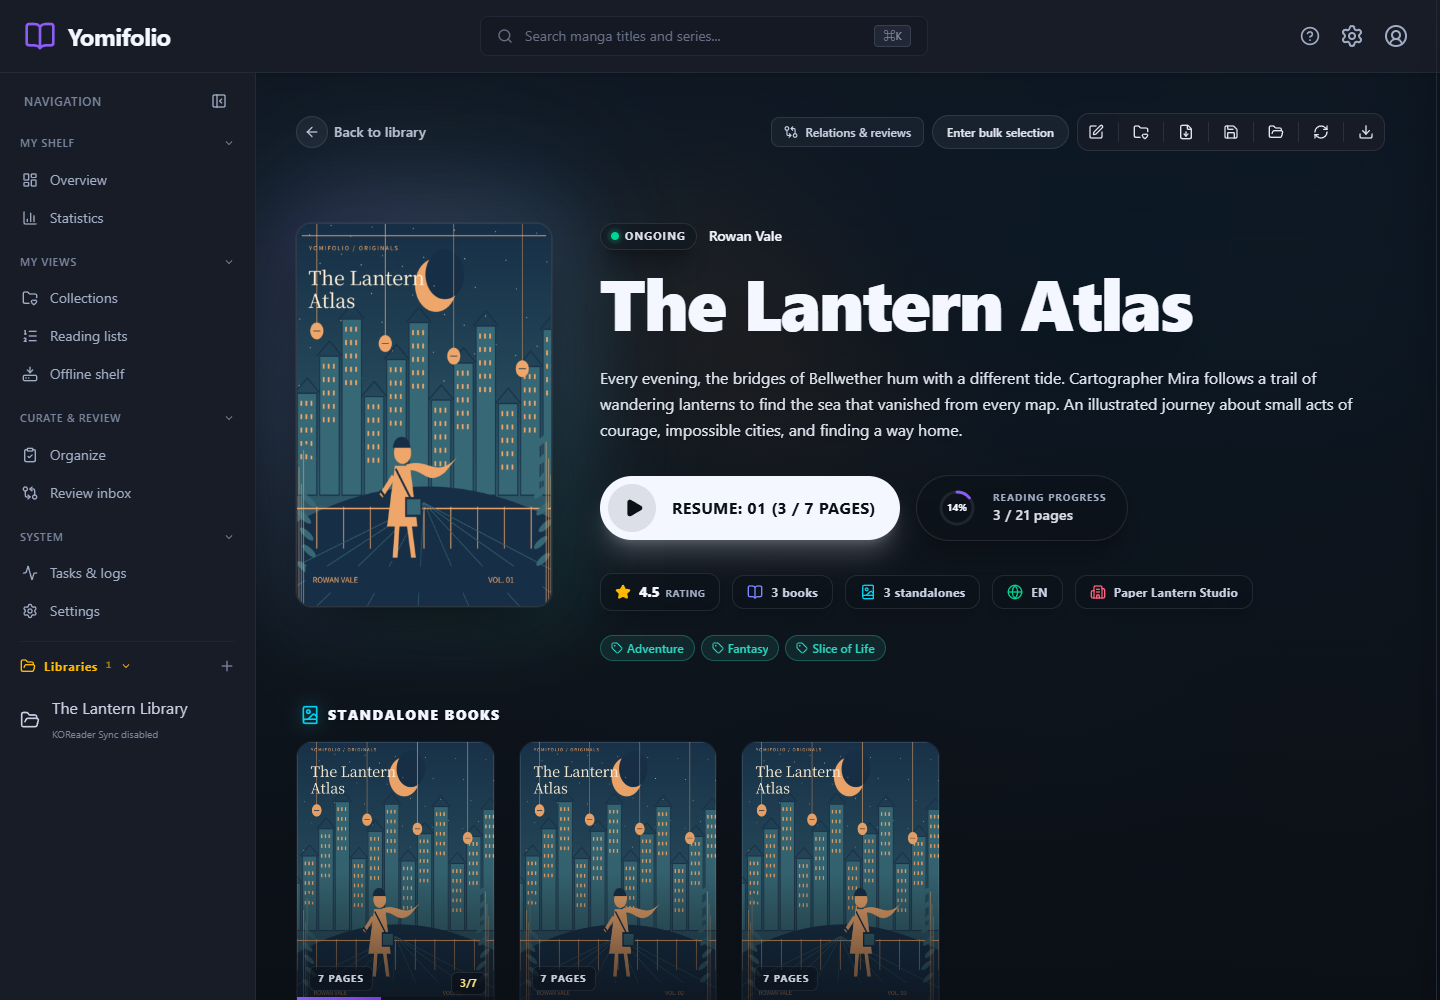
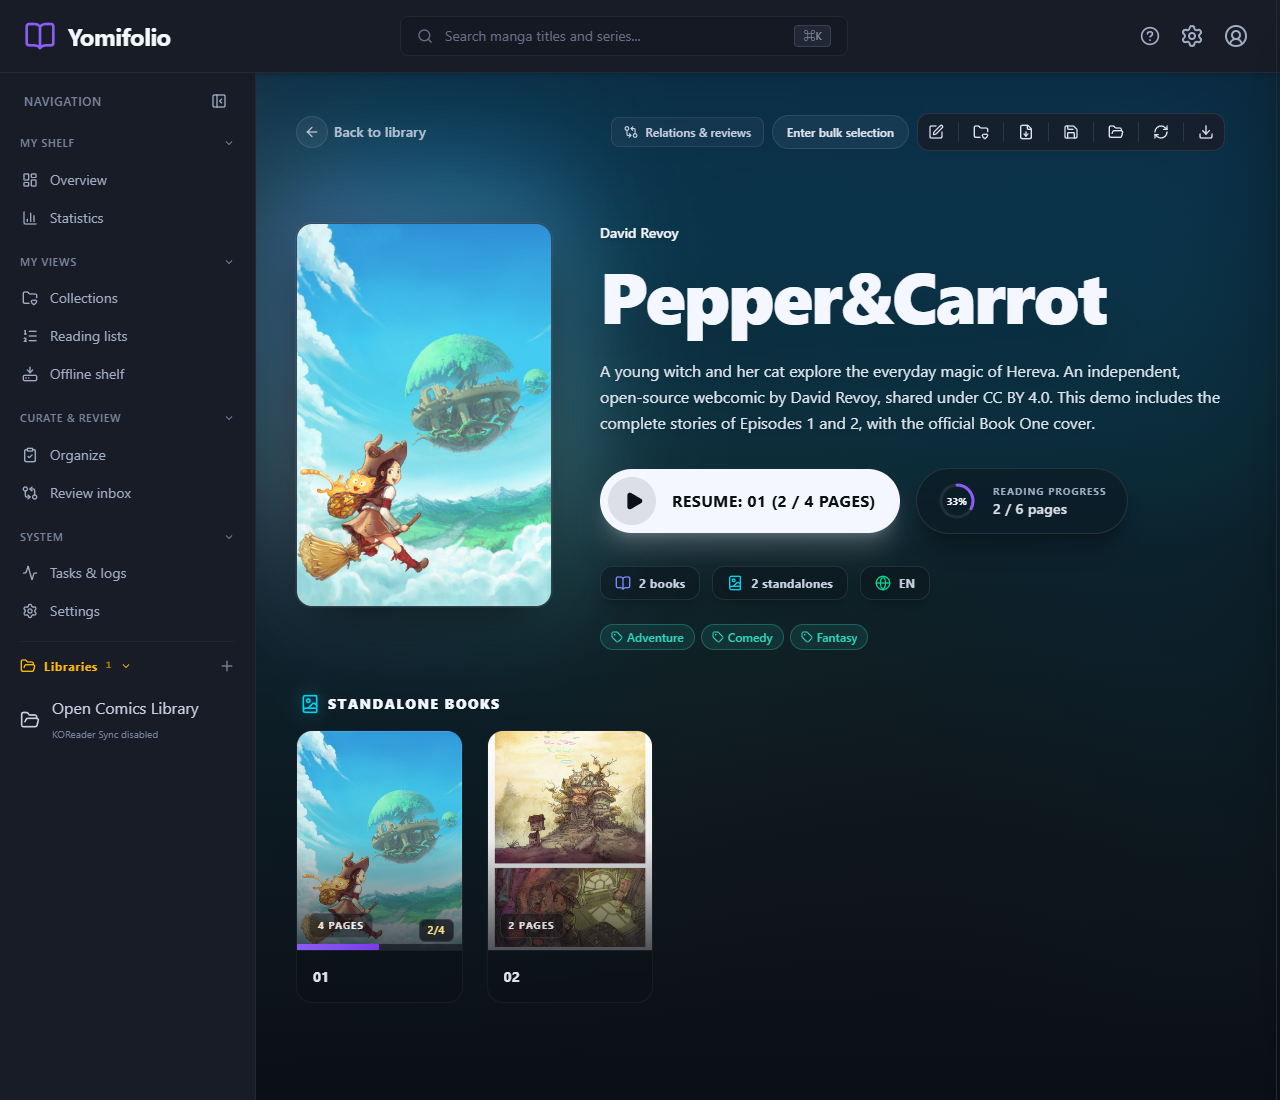
docs: replace placeholder screenshots with licensed comic samples

diff --git a/images/README.md b/images/README.md
@@ -1,71 +1,83 @@
-# Yomifolio product screenshots
+# Product screenshots and comic credits
 
-These four PNGs are **real browser captures of the current application**, not UI mockups or the README proposal. Captured on **2026-11-16 (UTC, capture machine clock)** from source revision `a9a37b99` with the existing, up-to-date `web/dist`.
+The four `yomifolio-*.png` files are direct browser captures of the real application, using an isolated library of authorized comic samples. No business DOM, API responses, covers, or reader controls were substituted. The screenshot library is a fixture, **not a bundled or downloadable manga collection**.
 
-| File | View | CSS viewport / PNG pixels | Size |
-| --- | --- | --- | --- |
-| `yomifolio-library.png` | Library browsing, 12 fictional series | 1440 × 1000 | 381,731 bytes |
-| `yomifolio-series.png` | The Lantern Atlas: metadata, progress and three books | 1440 × 1000 | 500,755 bytes |
-| `yomifolio-reader-desktop.png` | Fit-screen, paged, double-page reading | 1440 × 1000 | 463,144 bytes |
-| `yomifolio-reader-mobile.png` | Touch viewport, single-column continuous reading | 390 × 844 | 181,210 bytes |
+## Views and provenance
 
-Device scale factor is 1. The mobile image uses Chrome touch/device emulation, not a physical phone. UI language is English and the application theme is Midnight. Reader toolbars are the application's own controls. Screenshots are direct CDP PNG output, without retouching, compositing, cropping or substituted business DOM/API responses. This provenance statement applies to the four files above; no third-party comic artwork is included in this screenshot set.
+| File | Content | Viewport / PNG pixels |
+| --- | --- | --- |
+| `yomifolio-library.png` | Four works, actual covers, saved reading progress | 1280 × 820 |
+| `yomifolio-series.png` | Pepper&Carrot metadata and two episode archives | 1280 × 1100 |
+| `yomifolio-reader-desktop.png` | Pepper&Carrot, paged double-page reading | 1440 × 1000 |
+| `yomifolio-reader-mobile.png` | Pepper&Carrot, continuous vertical reading | 390 × 844 |
 
-## Original demonstration material
+UI: English, Midnight theme, device scale factor 1. The mobile image uses Chrome touch emulation, not a physical phone. The browser produced the PNGs directly; they were not retouched, composited, or cropped afterward. Cover framing and reader scaling are the application's normal behavior. Capture machine clock: 2026-11-20 UTC; application source base: `3e8226cf`, with current `web/dist`.
 
-`scripts/demo-art.mjs` draws original geometric comic illustrations with browser Canvas: a lantern-lit city, bridges, a scarf-wearing traveler, night skies, ink-like architectural lines and narrative panels. Series vary in palette, skyline, celestial motifs and character position; the three featured covers also vary by book. Each archive contains a cover and six illustrated story pages, with fictional narration/dialogue. This is deliberately stylized procedural comic art, not a reproduction of published manga.
+Four real works produce five local CBZ samples. The fixture includes complete Pepper&Carrot episode stories, excerpts of the other independent comics, and a **cover-only sample** of the Japanese manga. Page counts reflect these samples, not the lengths of the published books. Summaries identify the samples; no ratings or publication history were invented. ComicInfo imports, cover generation, metadata edits, and progress all use the real scanner/application APIs. Directly placed archives appear as standalone books, not nested volumes.
 
-The twelve fictional works are:
+## Artwork licenses and attribution
 
-- The Lantern Atlas
-- Cloudline Courier
-- The Quiet Observatory
-- Moss & Mercury
-- Tideglass Station
-- Paper Moon Orchard
-- The Copper Heron
-- Winter Signal
-- A Garden Above
-- The Last Tram Home
-- Inkstone Harbor
-- Small Hours Society
+The application's [Apache-2.0 license](../LICENSE) does **not** relicense these comics. Reusing a screenshot must respect the licenses of every artwork visible in it, including attribution and applicable ShareAlike conditions. The credits below are part of the screenshot attribution; keep them with redistributed images. Licensors do not endorse Yomifolio.
 
-“Rowan Vale”, “Paper Lantern Studio”, the stories and their metadata are fictional demo identities. There are 17 CBZ books in total; The Lantern Atlas has three. Archives are placed directly under each series directory, so the real UI correctly labels them standalone books, not nested volumes. ComicInfo.xml is imported by the real scanner. The featured summary, tags, rating, author and reading progress are saved through authenticated application APIs, not injected into the screenshot.
+### Pepper&Carrot — David Revoy
 
-These are project-original demonstration assets; no real manga IP, personal reading library, personal account or personal configuration was used. No external image/font downloads, scraper, LLM or AI image-upscaling service was used. This note records provenance, not a separate license grant; consult the repository's licensing terms for reuse.
+- Work: [Pepper&Carrot](https://www.peppercarrot.com/), by **David Revoy**. Artwork and scenario: David Revoy; English proofreading for Episode 1: Amireeti and Alex Gryson. Further episode credits appear on the linked source pages.
+- License: [CC BY 4.0](https://creativecommons.org/licenses/by/4.0/), confirmed on the [official license page](https://www.peppercarrot.com/en/license/index.html).
+- Sources: [Episode 1: The Potion of Flight](https://www.peppercarrot.com/en/webcomic/ep01_Potion-of-Flight.html), [Episode 2: Rainbow Potions](https://www.peppercarrot.com/en/webcomic/ep02_Rainbow-potions.html), and David Revoy's [Book One cover artwork](https://www.peppercarrot.com/0_sources/0ther/artworks/low-res/2016-02-24_vertical-cover_remake_by-David-Revoy.jpg).
+- Processing: official English low-resolution JPEG pages, in original story order. The first archive uses the official cover artwork followed by Episode 1's three story pages; the second uses Episode 2's two story pages. Episode title/credit sheets are not included in the reading samples; attribution is provided here. No panels were redrawn, recolored, or rearranged.
 
-## Reproduce
+### ブラックジャックによろしく — 佐藤秀峰
 
-Prerequisites: Windows, Node.js 24+ (native WebSocket/fetch), Python 3 (standard-library `zipfile` only), Go, and Chrome. No Playwright, Puppeteer, Pillow or additional npm package is needed. The captured run used Node 24.21.0, Go 1.27.4 and Chrome 157.0.8103.51. Prepare current `web/dist` using the project's normal frontend build if it is missing or stale; the script builds `./cmd/server` from current source.
+**ブラックジャックによろしく 佐藤秀峰 / Give My Regards to Black Jack / SHUHO SATO**
 
-From the repository root, in PowerShell with Node, Python and Go on PATH:
+- Source: the author's [Complete Edition release announcement](https://note.com/shuho_sato/n/n4a30c9db7916), using its [standalone Complete Edition 1 cover](https://assets.st-note.com/img/1719392768210-KcrhLzZSb1.jpg?width=1200).
+- Permission: the author's [official secondary-use terms](https://www.densho810.com/free/index.html). This is a **custom permission, not a Creative Commons license**. It permits commercial and noncommercial reproduction, public transmission, and adaptation of this work, subject to its conditions. The sequel is excluded; electronic bookstores/Kindle have separate restrictions.
+- Processing: the author-published cover JPEG was packaged unchanged into a one-image local CBZ. The complete volume was **not** downloaded or included. Official downloadable archives were unavailable during capture; the source is the author's own announcement, not a scan of a printed edition.
+- **Publication follow-up:** send the public URL, description of this README/screenshot use, and contact information to `info@densho810.com` **within one month after publication**, as required by the terms. Preparation of these files is not proof that this report has been sent. The repository maintainer must complete it when publishing.
+
+### Coffee For You — SacredVisionsStudio / Avery Nakashima
+
+- Work, author download, and license declaration: [Coffee For You](https://sacredvisionsstudio.itch.io/coffeeforyou), by **SacredVisionsStudio / Avery Nakashima**.
+- License: [CC BY-SA 4.0](https://creativecommons.org/licenses/by-sa/4.0/).
+- Processing: pages 1–9 of the author's 10-page PDF, including the real front cover, rendered as full-page 1200-pixel-wide images with MuPDF and converted to JPEG using FFmpeg. Original page order and artwork are preserved; this is an excerpt, not a complete edition.
+
+### Les aventures inutiles de Superflu — Gee
+
+- Work and publisher download: [Les aventures inutiles de Superflu](https://editions.ptilouk.net/superflu/), by **Gee**, Ptilouk Éditions; [source PDF](https://editions.ptilouk.net/files/les_aventures_inutiles_de_superflu_-_gee.pdf).
+- License: [CC BY-SA 2.0 France](https://creativecommons.org/licenses/by-sa/2.0/fr/).
+- Processing: pages 1–9 of the publisher's 51-page PDF, including the real front cover, rendered and converted as above. Original page order and artwork are preserved; this is an excerpt.
+
+## Reproduce with your own authorized samples
+
+Prerequisites: Windows, Node.js 24+ (native WebSocket/fetch), Python 3 (standard library), Go, and Chrome. Prepare current `web/dist` with the normal frontend build. PDF rendering tools are needed only when preparing PDF-sourced images; **the application imports CBZ images, not PDFs**.
+
+Download artwork from the credited sources and comply with its current terms. Create a local JSON manifest; image paths are relative to that manifest. Each series supplies `title`, `author`, `language`, `summary`, `tags`, and `books`; each book supplies `title`, optional `number`, and an ordered `pages` array. Set `focus: true` on the series to show in the detail/reader captures. For example:
+
+```json
+[
+  {
+    "title": "Your authorized sample",
+    "author": "Actual author",
+    "language": "en",
+    "summary": "Accurate description and sample scope.",
+    "tags": ["Fantasy"],
+    "focus": true,
+    "books": [
+      {"title": "Episode 1", "number": 1, "pages": ["cover.jpg", "page-01.jpg"]}
+    ]
+  }
+]
+```
+
+From the repository root, with Node, Python, and Go on PATH:
 
 ```powershell
-$env:GOCACHE = Join-Path (Get-Location) '.gocache' # optional; an existing shared cache is also suitable
 $env:CHROME_PATH = 'C:/Program Files/Google/Chrome/Application/chrome.exe' # default
-node scripts/capture-demo.mjs
+node scripts/capture-demo.mjs .tmp/authorized-comics/capture-manifest.json
 ```
 
-The script refuses occupied ports and an existing `.tmp/yomifolio-demo` directory. For another run, first move that **demo directory only** to an unused name under `.tmp`; it never deletes/reuses an existing library. The four screenshot destinations above are intentionally overwritten on success.
+The manifest and source downloads are deliberately untracked. The script refuses occupied ports or an existing `.tmp/yomifolio-demo` directory. For another run, move **that demo directory only** to an unused name under `.tmp`. It overwrites the four named screenshots; it does not delete or reuse an existing library.
 
-All runtime paths are explicit absolute paths beneath gitignored `.tmp/yomifolio-demo`: a new YAML configuration, SQLite database, cache, logs, generated artwork/CBZ library, server executable and independent Chrome profile. `-data-dir` alone does **not** isolate the database/cache; the script sets those separately. The server binds only `127.0.0.1:18080`, Chrome debugging only `127.0.0.1:19222`; protocols remain disabled. The browser blocks requests outside the local origin (data/blob images excepted) and disables background services/DNS resolution for outside hosts. The script does not run `cmd/sampledata`, touch normal application configuration or connect to an existing browser.
+The script sets explicit database, cache, configuration, logs, executable, and browser-profile paths under `.tmp/yomifolio-demo`; `-data-dir` alone would isolate only logs. Server and Chrome debugging bind to loopback (`18080` and `19222`); integrations remain disabled. Browser requests outside the local origin are blocked, apart from data/blob URLs. No normal configuration, private library, or existing browser is used.
 
-The foreground orchestrator starts the server and Chrome, creates a fresh demo administrator, imports CBZs through the library API, waits for scan and independent cover tasks to complete, sets real metadata/progress, then visits `/library/{id}`, `/series/{id}` and `/reader/{id}`. It waits for visible images to have nonzero natural dimensions, rather than relying on network-idle with SSE. Both child processes are stopped in `finally`; do not detach the orchestrator. Runtime evidence stays in `.tmp/yomifolio-demo/{capture,tasks}.json` and `process.log`. No demo credentials are needed outside this disposable fixture.
-
-## Checks for this capture
-
-- Real scan: 17 archives processed, zero failed; independent cover generation: 17 covers, zero failed; both tasks `completed`.
-- All four final files were opened and visually inspected: populated UI/artwork, no error/login/loading screen or modal dialog.
-- PNG dimensions match the table; every file is below 0.5 MiB. Server/debugging ports were closed after capture.
-- Scripts pass `node --check`; only new screenshot/material documentation and reusable scripts were added.
-
-SHA-256:
-
-```text
-34aedd89fa014f94a476db7d0889a3455ea570b952a9c8ba2d889e206d872597  yomifolio-library.png
-0a136247ddac30c9e9eb429810a3738ab69976211c0dd67a369af08fbf68ee4e  yomifolio-series.png
-490fe8bb295ce8498fd9229f76cd2f8adc4081ff663cb88372686e8954944205  yomifolio-reader-desktop.png
-af56ab2e067983d14d3a869d8bf03a16dd3a88da350e47fb6d9d54be5637093b  yomifolio-reader-mobile.png
-```
-
-Reproduction follows the same process/content but is not promised to be byte-identical across browser versions, system fonts, scan scheduling or persisted reading progress.
+The real scan and cover tasks must complete before capture; visible images must load. Both child processes stop in `finally`. Local evidence remains in `.tmp/yomifolio-demo/{capture,tasks}.json` and `process.log`. The recorded run processed five archives and generated five covers with zero failures. All four images were opened and visually inspected. Reproduction is not promised to be byte-identical across browser versions, fonts, or reading-state timing.
